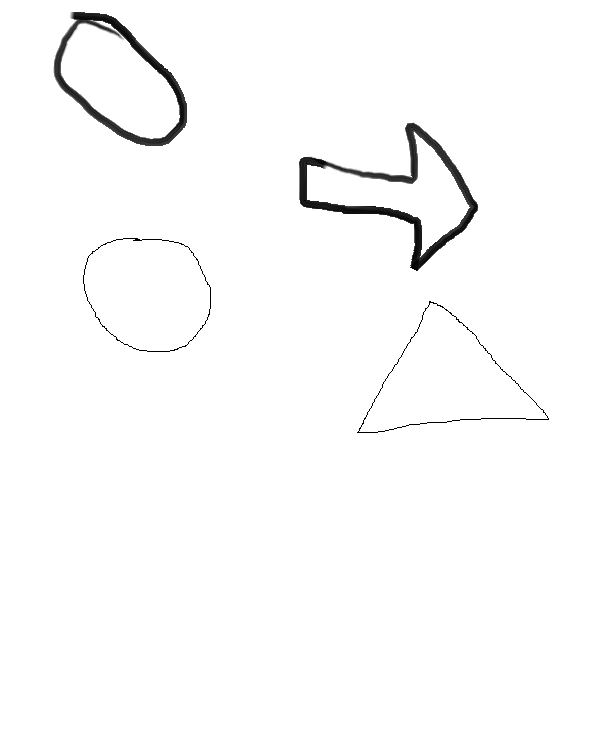
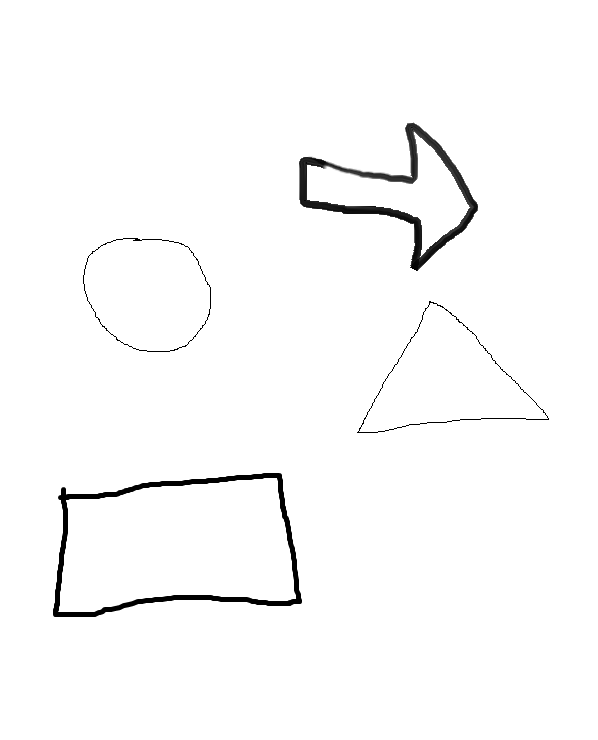
Работа над прямоугольником

diff --git a/DiplomApplication2/DiplomApplication2.cpp b/DiplomApplication2/DiplomApplication2.cpp
@@ -7,7 +7,7 @@
 
 // сравнение объектов по моментам их контуров 
 //templ - образец, original - набор фигур
-void testMatch(IplImage* original, IplImage* templ) 
+void testMatch(IplImage* original, IplImage* templCircle, IplImage* templRectangle) 
 {
         assert(original!=0);
         assert(templ!=0);
@@ -19,24 +19,27 @@ void testMatch(IplImage* original, IplImage* templ)
 
         src=cvCloneImage(original);
 		
-
+		
         IplImage* binI = cvCreateImage( cvGetSize(original), 8, 1);
-        IplImage* binT = cvCreateImage( cvGetSize(templ), 8, 1);
-				
+        IplImage* binCircle = cvCreateImage( cvGetSize(templCircle), 8, 1);
+		IplImage* binRectangle = cvCreateImage( cvGetSize(templRectangle), 8, 1);		
 
         // заведём цветные картинки
         IplImage* rgb = cvCreateImage(cvGetSize(original), 8, 3);
         cvConvertImage(src, rgb, CV_GRAY2BGR);
-        IplImage* rgbT = cvCreateImage(cvGetSize(templ), 8, 3);
-        cvConvertImage(templ, rgbT, CV_GRAY2BGR);
-
+        IplImage* rgbCircle = cvCreateImage(cvGetSize(templCircle), 8, 3);
+        cvConvertImage(templCircle, rgbCircle, CV_GRAY2BGR);
+		IplImage* rgbRectangle = cvCreateImage(cvGetSize(templRectangle), 8, 3);
+        cvConvertImage(templRectangle, rgbRectangle, CV_GRAY2BGR);
 
         // получаем границы изображения и шаблона
         cvCanny(src, binI, 50, 200);
-        cvCanny(templ, binT, 50, 200);
+        cvCanny(templCircle, binCircle, 50, 200);
+		cvCanny(templRectangle, binRectangle, 20, 200);
 
+	
 		IplImage* binI2 = cvCreateImage( cvGetSize(original), 8, 1);
-        IplImage* binT2 = cvCreateImage( cvGetSize(templ), 8, 1);
+        //IplImage* binCircle2 = cvCreateImage( cvGetSize(templCircle), 8, 1);
 
 		cvDilate(binI, binI2); 
 		cvErode(binI2, binI);
@@ -44,15 +47,18 @@ void testMatch(IplImage* original, IplImage* templ)
         cvNamedWindow( "cannyI", 1 );
         cvShowImage( "cannyI", binI);
 
-        cvNamedWindow( "cannyT", 1 );
-		cvShowImage( "cannyT", binT);
+        cvNamedWindow( "cannyCircle", 1 );
+		cvShowImage( "cannyCircle", binCircle);
+
+		cvNamedWindow("cannyRectangle", 1);
+		cvShowImage("cannyRectangle", binRectangle);
 
         // для хранения контуров
         CvMemStorage* storage = cvCreateMemStorage(0);
-        CvSeq* contoursI=0, *contoursT=0;
+        CvSeq* contoursI=0, *contoursCircle=0, *contoursRectangle=0;
 
-        // находим контуры изображения
-        int contoursCont = cvFindContours( binI, storage, &contoursI, sizeof(CvContour), CV_RETR_EXTERNAL, CV_CHAIN_APPROX_SIMPLE, cvPoint(0,0));
+        // находим контуры исходного изображения
+        int contoursICount = cvFindContours( binI, storage, &contoursI, sizeof(CvContour), CV_RETR_EXTERNAL, CV_CHAIN_APPROX_SIMPLE, cvPoint(0,0));
 
         // для отметки контуров
         CvFont font;
@@ -60,25 +66,45 @@ void testMatch(IplImage* original, IplImage* templ)
         char buf[1024];
         int counter=0;
         cvConvertImage(src, rgb, CV_GRAY2BGR);
-        // находим контуры шаблона
-        cvFindContours( binT, storage, &contoursT, sizeof(CvContour), CV_RETR_LIST, CV_CHAIN_APPROX_SIMPLE , cvPoint(0,0));
-        CvSeq* seqT=0;
-        double perimT = 0;
+       
 
-		        if(contoursT!=0){
-                // ������� ����� ������� ������ 
-                for(CvSeq* seq0 = contoursT;seq0!=0;seq0 = seq0->h_next){
+		// находим самый длинный контур Круга
+        cvFindContours( binCircle, storage, &contoursCircle, sizeof(CvContour), CV_RETR_LIST, CV_CHAIN_APPROX_SIMPLE , cvPoint(0,0));
+        CvSeq* seqCircle=0;
+        double perimCircle = 0;
+
+		        if(contoursCircle!=0){
+                for(CvSeq* seq0 = contoursCircle;seq0!=0;seq0 = seq0->h_next){
                         double perim = cvContourPerimeter(seq0);
-                        if(perim>perimT){
-                                perimT = perim;
-                                seqT = seq0;
+                        if(perim>perimCircle){
+                                perimCircle = perim;
+                                seqCircle = seq0;
                         }
-                        // ������
-                        cvDrawContours(rgbT, seqT, CV_RGB(255,216,0), CV_RGB(0,0,250), 0, 1, 8); // ������ ������
+                        cvDrawContours(rgbCircle, seqCircle, CV_RGB(255,216,0), CV_RGB(0,0,250), 0, 1, 8); 
                 }
         }
 
+		// находим самый длинный контур Прямоугольника
+		cvFindContours( binRectangle, storage, &contoursRectangle, sizeof(CvContour), CV_RETR_LIST, CV_CHAIN_APPROX_SIMPLE , cvPoint(0,0));
+        CvSeq* seqRectangle=0;
+        double perimRectangle = 0;
 
+		        if(contoursRectangle!=0){
+					for(CvSeq* seq0 = contoursRectangle;seq0!=0;seq0 = seq0->h_next)
+					{
+                        double perim = cvContourPerimeter(seq0);
+                        if(perim>perimRectangle){
+                                perimRectangle = perim;
+                                seqRectangle = seq0;
+                        }
+                        cvDrawContours(rgbRectangle, seqRectangle, CV_RGB(255,216,0), CV_RGB(0,0,250), 0, 1, 8); 
+					}
+        }
+
+		
+				
+				
+		//1) Ищем для Круга--------------------------------------------------
         CvSeq* seqM=0;
         double matchMax=1000;
         // обходим контуры изображения 
@@ -87,7 +113,7 @@ void testMatch(IplImage* original, IplImage* templ)
         if(contoursI!=0){
                 // поиск лучшего совпадения контуров по их моментам 
                 for(CvSeq* seq0 = contoursI;seq0!=0;seq0 = seq0->h_next){
-                        double match0 = cvMatchShapes(seq0, seqT, 3);
+                        double match0 = cvMatchShapes(seq0, seqCircle, 3);
                         if(match0<matchMax){
                                 matchMax = match0;
                                 seqM = seq0;
@@ -128,11 +154,62 @@ void testMatch(IplImage* original, IplImage* templ)
 
 		printf("radius = %d centerX = %d centerY = %d", (xmax - xmin)/2, xmin+(xmax-xmin)/2, ymin+(ymax-ymin)/2);
 		
+        cvNamedWindow( "maxMatchContourCircle", 1 );
+		cvShowImage( "maxMatchContourCircle", maxMatchContourImage);
+		cvNamedWindow( "original with matches circle", 1 );
+		cvShowImage( "original with matches circle", rgb);
 
-        cvNamedWindow( "maxMatchContour", 1 );
-		cvShowImage( "maxMatchContour", maxMatchContourImage);
-		cvNamedWindow( "original with matches", 1 );
-		cvShowImage( "original with matches", rgb);
+
+
+		//2) ищем для Прямоугольника---------------------------------------------
+		seqM=0;
+        matchMax=1000;
+        // обходим контуры изображения 
+        counter=0;
+		i=0;
+		IplImage* matchesRectangle = cvCreateImage( cvGetSize(original), 8, 3);
+		cvConvertImage(src, matchesRectangle, CV_GRAY2BGR);
+		//cvSet(matchesRectangle, CV_RGB(255,255,255));
+        if(contoursI!=0){
+                // поиск лучшего совпадения контуров по их моментам 
+                for(CvSeq* seq0 = contoursI;seq0!=0;seq0 = seq0->h_next){
+                        double match0 = cvMatchShapes(seq0, seqRectangle, 3);
+                        if(match0<matchMax){
+                                matchMax = match0;
+                                seqM = seq0;
+                        }
+						cvMinEnclosingCircle(seq0,&point,&rad); // получим окружность содержащую контур
+
+						int     decimal,   sign;
+						char    *buffer;
+						int     precision = 4;
+						double  source = match0;
+
+						
+
+						buffer = _ecvt( source, precision, &decimal, &sign ); 
+						cvPutText(matchesRectangle, buffer, cvPointFrom32f(point), &font, CV_RGB(0,0,250));
+						printf( "source: %2.10f   buffer: '%s'  decimal: %d  sign: %d\n",
+								source, buffer, decimal, sign );
+						 
+				}
+        }
+        // рисуем найденный контур
+		maxMatchContourImage = cvCreateImage( cvGetSize(original), 8, 3);
+		cvSet(maxMatchContourImage, CV_RGB(255,255,255));
+		cvDrawContours(maxMatchContourImage, seqM, CV_RGB(250,0,0), CV_RGB(250,0,0), 0, 2, 8); // рисуем контур
+		x=0,y=0;
+
+		cvNamedWindow( "maxMatchContourRectangle", 1 );
+		cvShowImage( "maxMatchContourRectangle", maxMatchContourImage);
+		cvNamedWindow( "original with matches rectangle", 1 );
+		cvShowImage( "original with matches rectangle", matchesRectangle);
+
+
+
+
+
+
 
         // ждём нажатия клавиши
         cvWaitKey(0);
@@ -141,9 +218,10 @@ void testMatch(IplImage* original, IplImage* templ)
         cvReleaseMemStorage(&storage);
         cvReleaseImage(&src);
         cvReleaseImage(&rgb);
-        cvReleaseImage(&rgbT);
+        cvReleaseImage(&rgbCircle);
         cvReleaseImage(&binI);
-        cvReleaseImage(&binT);
+        cvReleaseImage(&binCircle);
+		cvReleaseImage(&binRectangle);
 
         // удаляем окна
         cvDestroyAllWindows();
@@ -161,7 +239,7 @@ int main(int argc, char* argv[])
         printf("[i] image: %s\n", filename);
         assert( original != 0 );
 
-        // имя шаблона задаётся вторым параметром
+        // шаблон Круг
         char* filename2 = argc >= 3 ? argv[2] : "D:\\work\\DiplomApplication2\\DiplomApplication2\\kontur0.png";
         // получаем картинку 
         templCircle = cvLoadImage(filename2, 0);
@@ -169,13 +247,22 @@ int main(int argc, char* argv[])
         printf("[i] template: %s\n", filename2);
         assert( templCircle != 0 );
 
+		//шаблон Прямоугольник
+		char* filename3 = argc >= 3 ? argv[2] : "D:\\work\\DiplomApplication2\\DiplomApplication2\\kontur1.png";
+        // получаем картинку 
+        templRectangle = cvLoadImage(filename3, 0);
+
+        printf("[i] template: %s\n", filename3);
+        assert( templRectangle != 0 );
+
 
         // сравнение
-        testMatch(original, templCircle);
+		testMatch(original, templCircle, templRectangle);
 
         // освобождаем ресурсы
         cvReleaseImage(&original);
         cvReleaseImage(&templCircle);
+		 cvReleaseImage(&templRectangle);
         // удаляем окна
         cvDestroyAllWindows();
         return 0;
